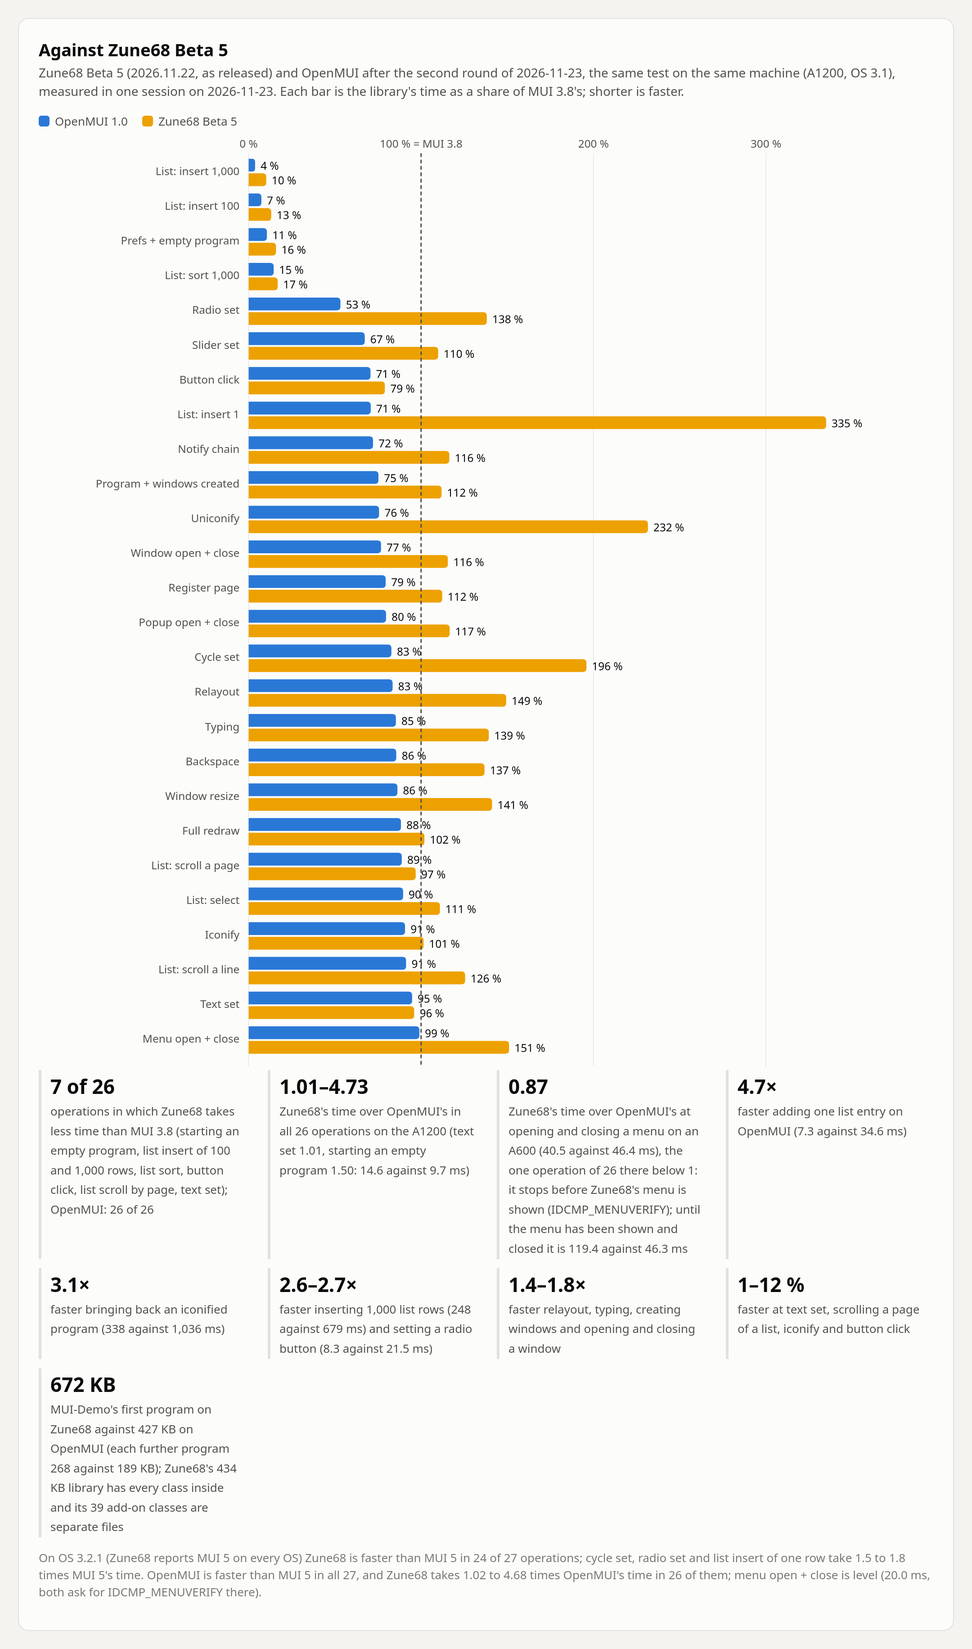
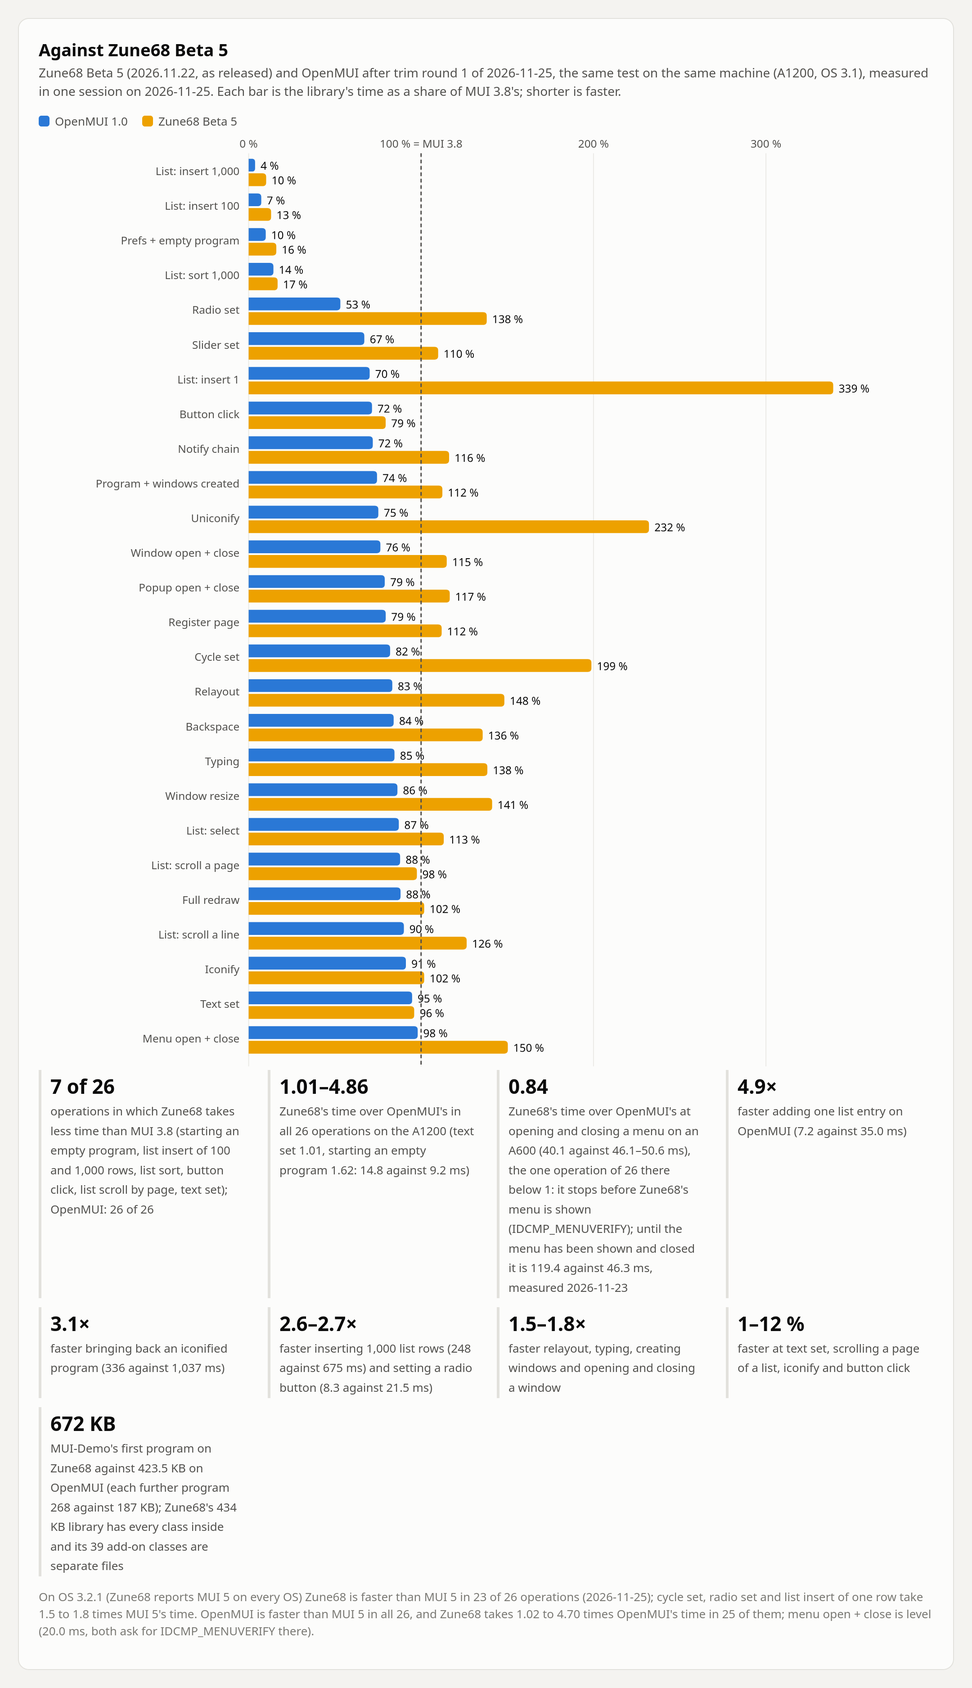
Stats page and README: figures of 2026-11-25 (trim round 1), new 68030/50 MHz chart

diff --git a/docs/stats/openmui-stats.html b/docs/stats/openmui-stats.html
@@ -86,8 +86,8 @@ th { color: var(--text-secondary); font-weight: 600; }
 <div class="wrap">
   <button class="toggle" id="theme" type="button">Light / dark</button>
   <h1>OpenMUI in numbers</h1>
-  <p class="lede">OpenMUI (the build after the second round of 2026-11-23) next to Zune68 Beta 5 (2026.11.22), MUI 3.8 and MUI 5. All figures were measured in an
-  emulated Amiga 1200 (68EC020, OS 3.1 unless noted, FS-UAE), not on a real Amiga. Measured 2026-11-23, all libraries in one session.</p>
+  <p class="lede">OpenMUI (the build after trim round 1, 2026-11-25) next to Zune68 Beta 5 (2026.11.22), MUI 3.8 and MUI 5. All figures were measured in
+  emulated Amigas (FS-UAE, cycle-exact; A1200 68EC020 and 68030 at 50 MHz, A600, OS 3.1 unless noted), not on a real Amiga. Measured 2026-11-25, all libraries in one session; memory of MUI 5 and the library alone: 2026-11-23.</p>
 
   <div class="lineage card" style="padding:12px 18px">
     <b>Zune</b> (AROS) <span>&rarr;</span> <b>Zune68</b> (Stefan Reinauer's port to AmigaOS 3) <span>&rarr;</span>
@@ -95,16 +95,16 @@ th { color: var(--text-secondary); font-weight: 600; }
   </div>
 
   <div data-sec="headline" class="tiles">
-    <div class="tile"><div class="k">First program, memory</div><div class="v">427.3 KB</div>
-      <div class="d">MUI 3.8: 460.3 &middot; MUI 5: 1,294 &middot; Zune68 Beta 5: 672</div></div>
-    <div class="tile"><div class="k">Each further program</div><div class="v">188.6 KB</div>
-      <div class="d">MUI 3.8: 211&ndash;219 &middot; MUI 5: 427&ndash;435 &middot; Zune68 Beta 5: 268</div></div>
+    <div class="tile"><div class="k">First program, memory</div><div class="v">423.5 KB</div>
+      <div class="d">MUI 3.8: 460.3 &middot; MUI 5: 1,294 (2026-11-23) &middot; Zune68 Beta 5: 672</div></div>
+    <div class="tile"><div class="k">Each further program</div><div class="v">187.3 KB</div>
+      <div class="d">MUI 3.8: 211&ndash;219 &middot; MUI 5: 427&ndash;435 (2026-11-23) &middot; Zune68 Beta 5: 268</div></div>
     <div class="tile"><div class="k">Operations at least as fast as MUI 3.8</div><div class="v">26 of 26</div>
-      <div class="d">A1200 and A600 (menu open + close 0.99 on both); started at 12 of 26</div></div>
-    <div class="tile"><div class="k">Operations faster than MUI 5</div><div class="v">27 of 27</div>
-      <div class="d">1.3 to 82&times; faster; a third of its memory</div></div>
+      <div class="d">A1200 and A1200/030; A600 25 of 26 (menu open + close 1.02); started at 12 of 26</div></div>
+    <div class="tile"><div class="k">Operations faster than MUI 5</div><div class="v">26 of 26</div>
+      <div class="d">1.3 to 82&times; faster (OS 3.2.1); a third of its memory</div></div>
     <div class="tile"><div class="k">Inserting 1,000 list entries</div><div class="v">27&times; faster</div>
-      <div class="d">248 ms against MUI 3.8's 6,653 ms and Zune68 Beta 5's 679 ms</div></div>
+      <div class="d">248 ms against MUI 3.8's 6,650 ms and Zune68 Beta 5's 675 ms (A1200)</div></div>
   </div>
 
   <div data-sec="memory" class="card">
@@ -123,7 +123,7 @@ th { color: var(--text-secondary); font-weight: 600; }
 
   <div data-sec="speed-mui38" class="card">
     <h2>Speed: OpenMUI's time as a share of MUI 3.8's</h2>
-    <p class="sub">26 everyday operations on an emulated A1200, the same test program on both libraries, cycle-exact emulation, measured 2026-11-23.
+    <p class="sub">26 everyday operations on an emulated A1200 (68EC020), the same test program on both libraries, cycle-exact emulation, measured 2026-11-25; bars are midpoints of the range over the instances.
       The dashed line is MUI 3.8 (100&nbsp;%). Shorter is faster.</p>
     <svg id="speed"></svg>
     <details><summary>Table view: all libraries, ms per operation</summary><table id="speedTable"></table>
@@ -132,35 +132,42 @@ th { color: var(--text-secondary); font-weight: 600; }
 
   <div data-sec="speed-mui5" class="card">
     <h2>Speed: OpenMUI's time as a share of MUI 5's</h2>
-    <p class="sub">The same test on OS 3.2.1, measured 2026-11-23. OpenMUI gives MUI 5 programs MUI 5's behaviour, so it was opened as MUI 5 here.
-      Faster in all 27 operations.</p>
+    <p class="sub">The same test on OS 3.2.1, measured 2026-11-25. OpenMUI gives MUI 5 programs MUI 5's behaviour, so it was opened as MUI 5 here.
+      Faster in all 26 operations (shortened text set has no MUI 5 figure on this date).</p>
     <svg id="speed5"></svg>
   </div>
 
   <div data-sec="speed-a600" class="card">
     <h2>Speed on an A600: OpenMUI's time as a share of MUI 3.8's</h2>
-    <p class="sub">The same 26 operations on an emulated A600 (68000, 7&nbsp;MHz, 4&nbsp;MB fast memory), OS 3.1, measured 2026-11-23.
-      25 are faster; list insert of one row is 2 % slower (as in release 1.0).</p>
+    <p class="sub">The same 26 operations on an emulated A600 (68000, 7&nbsp;MHz, 4&nbsp;MB fast memory), OS 3.1, measured 2026-11-25.
+      25 are faster; menu open + close is 2 % slower (1.02, bimodal).</p>
     <svg id="speed600"></svg>
+  </div>
+
+  <div data-sec="speed-030" class="card">
+    <h2>Speed on an A1200 with a 68030: OpenMUI's time as a share of MUI 3.8's</h2>
+    <p class="sub">The same 26 operations on an emulated A1200 with a 68030 at 50&nbsp;MHz, 68882, caches on, 16&nbsp;MB Zorro III + 4&nbsp;MB fast memory, OS 3.1, cycle-exact FS-UAE (its 030 timing, not a real card's), measured 2026-11-25.
+      All 26 are faster.</p>
+    <svg id="speed030"></svg>
   </div>
 
   <div data-sec="zune68" class="card">
     <h2>Against Zune68 Beta 5</h2>
-    <p class="sub">Zune68 Beta 5 (2026.11.22, as released) and OpenMUI after the second round of 2026-11-23, the same test on the same machine (A1200, OS 3.1), measured in one session on 2026-11-23. Each bar is the library's time as a share of MUI 3.8's; shorter is faster.</p>
+    <p class="sub">Zune68 Beta 5 (2026.11.22, as released) and OpenMUI after trim round 1 of 2026-11-25, the same test on the same machine (A1200, OS 3.1), measured in one session on 2026-11-25. Each bar is the library's time as a share of MUI 3.8's; shorter is faster.</p>
     <div class="legend" id="cmplegend"></div>
     <svg id="cmp"></svg>
     <div class="facts">
       <div><b>7 of 26</b><span>operations in which Zune68 takes less time than MUI 3.8 (starting an empty program, list insert of 100 and 1,000 rows, list sort, button click, list scroll by page, text set); OpenMUI: 26 of 26</span></div>
-      <div><b>1.01&ndash;4.73</b><span>Zune68's time over OpenMUI's in all 26 operations on the A1200 (text set 1.01, starting an empty program 1.50: 14.6 against 9.7 ms)</span></div>
-      <div><b>0.87</b><span>Zune68's time over OpenMUI's at opening and closing a menu on an A600 (40.5 against 46.4 ms), the one operation of 26 there below 1: it stops before Zune68's menu is shown (IDCMP_MENUVERIFY); until the menu has been shown and closed it is 119.4 against 46.3 ms</span></div>
-      <div><b>4.7&times;</b><span>faster adding one list entry on OpenMUI (7.3 against 34.6 ms)</span></div>
-      <div><b>3.1&times;</b><span>faster bringing back an iconified program (338 against 1,036 ms)</span></div>
-      <div><b>2.6&ndash;2.7&times;</b><span>faster inserting 1,000 list rows (248 against 679 ms) and setting a radio button (8.3 against 21.5 ms)</span></div>
-      <div><b>1.4&ndash;1.8&times;</b><span>faster relayout, typing, creating windows and opening and closing a window</span></div>
+      <div><b>1.01&ndash;4.86</b><span>Zune68's time over OpenMUI's in all 26 operations on the A1200 (text set 1.01, starting an empty program 1.62: 14.8 against 9.2 ms)</span></div>
+      <div><b>0.84</b><span>Zune68's time over OpenMUI's at opening and closing a menu on an A600 (40.1 against 46.1&ndash;50.6 ms), the one operation of 26 there below 1: it stops before Zune68's menu is shown (IDCMP_MENUVERIFY); until the menu has been shown and closed it is 119.4 against 46.3 ms, measured 2026-11-23</span></div>
+      <div><b>4.9&times;</b><span>faster adding one list entry on OpenMUI (7.2 against 35.0 ms)</span></div>
+      <div><b>3.1&times;</b><span>faster bringing back an iconified program (336 against 1,037 ms)</span></div>
+      <div><b>2.6&ndash;2.7&times;</b><span>faster inserting 1,000 list rows (248 against 675 ms) and setting a radio button (8.3 against 21.5 ms)</span></div>
+      <div><b>1.5&ndash;1.8&times;</b><span>faster relayout, typing, creating windows and opening and closing a window</span></div>
       <div><b>1&ndash;12 %</b><span>faster at text set, scrolling a page of a list, iconify and button click</span></div>
-      <div><b>672 KB</b><span>MUI-Demo's first program on Zune68 against 427 KB on OpenMUI (each further program 268 against 189 KB); Zune68's 434 KB library has every class inside and its 39 add-on classes are separate files</span></div>
+      <div><b>672 KB</b><span>MUI-Demo's first program on Zune68 against 423.5 KB on OpenMUI (each further program 268 against 187 KB); Zune68's 434 KB library has every class inside and its 39 add-on classes are separate files</span></div>
     </div>
-    <p class="note">On OS 3.2.1 (Zune68 reports MUI 5 on every OS) Zune68 is faster than MUI 5 in 24 of 27 operations; cycle set, radio set and list insert of one row take 1.5 to 1.8 times MUI 5's time. OpenMUI is faster than MUI 5 in all 27, and Zune68 takes 1.02 to 4.68 times OpenMUI's time in 26 of them; menu open + close is level (20.0 ms, both ask for IDCMP_MENUVERIFY there).</p>
+    <p class="note">On OS 3.2.1 (Zune68 reports MUI 5 on every OS) Zune68 is faster than MUI 5 in 23 of 26 operations (2026-11-25); cycle set, radio set and list insert of one row take 1.5 to 1.8 times MUI 5's time. OpenMUI is faster than MUI 5 in all 26, and Zune68 takes 1.02 to 4.70 times OpenMUI's time in 25 of them; menu open + close is level (20.0 ms, both ask for IDCMP_MENUVERIFY there).</p>
   </div>
 
   <div data-sec="progress" class="card">
@@ -184,7 +191,7 @@ th { color: var(--text-secondary); font-weight: 600; }
   </div>
 
   <p class="note">Sources: docs/lean/measurements.md and docs/production.md in the OpenMUI repository
-  (github.com/creep-ltx/openmui). Emulator figures measured 2026-11-23; real-hardware figures follow.</p>
+  (github.com/creep-ltx/openmui). Emulator figures measured 2026-11-25 (MUI 5 memory and library alone 2026-11-23); real-hardware figures follow.</p>
 </div>
 <div class="tip" id="tip"></div>
 </div>
@@ -196,104 +203,132 @@ const LIBS = [
   { id: 'mui5',    name: 'MUI 5',         color: 'var(--s-mui5)' },
   { id: 'zune68',  name: 'Zune68 Beta 5', color: 'var(--s-zune68)' },
 ];
-// KB; null = not measured yet. Zune68 = Beta 5 (2026.11.22) as released, 68000 build. Measured 2026-11-23.
+// KB; null = not measured yet. Zune68 = Beta 5 (2026.11.22) as released. first/further and the OpenMUI file: 2026-11-25 (MUI 3.8, Zune68: A1200/030 run); MUI 5, library alone and the other files: 2026-11-23.
 const MEM = {
-  first:   { openmui: 427.3, mui38: 460.3, mui5: 1293.7, zune68: 672.3 },
-  further: { openmui: 188.6, mui38: 214.8, mui5: 431.3, zune68: 267.9 },
+  first:   { openmui: 423.5, mui38: 460.3, mui5: 1293.7, zune68: 672.3 },
+  further: { openmui: 187.3, mui38: 214.7, mui5: 431.3, zune68: 267.9 },
   lib:     { openmui: 248.5, mui38: 238.5, mui5: 581.0, zune68: 433.3 },
-  file:    { openmui: 234.8, mui38: 166.4, mui5: 565.5, zune68: 433.7 },
+  file:    { openmui: 232.1, mui38: 166.4, mui5: 565.5, zune68: 433.7 },
 };
-const MEMNOTE = { further: 'MUI 3.8: 210.7–218.9 KB, midpoint shown', file: 'Library file only. Class files on top (stripped): MUI 3.8 271 KB, OpenMUI 290 KB (loaded only when used), MUI 5 2,054 KB, Zune68 803 KB (39 add-on class files). MUI 3.8 and MUI 5 file sizes of 2026-11-19, the rest of 2026-11-23.' };
-// ms per operation, A1200, measured 2026-11-23, OS 3.1: [name, MUI 3.8, OpenMUI (after the second round of 2026-11-23), Zune68 Beta 5]; mean of two instances.
+const MEMNOTE = { further: 'MUI 3.8: 210.6–218.8 KB, midpoint shown', file: 'Library file only. Class files on top (stripped): MUI 3.8 271 KB, OpenMUI 290 KB (loaded only when used), MUI 5 2,054 KB, Zune68 803 KB (39 add-on class files). OpenMUI file (stripped) of 2026-11-25; MUI 3.8 and MUI 5 of 2026-11-19, Zune68 of 2026-11-23.' };
+// ms per operation, A1200 (68EC020), measured 2026-11-25, OS 3.1: [name, MUI 3.8, OpenMUI (trim round 1), Zune68 Beta 5]; midpoint of the range over the instances.
 const SPEED = [
-  ["Prefs + empty program", 91.89, 9.73, 14.56],
-  ["Program + windows created", 236.6, 178.1, 264.7],
-  ["Window open + close", 521.6, 400.5, 602.6],
-  ["Full redraw", 150.7, 133.1, 153.6],
-  ["Relayout", 207.1, 172.9, 309.3],
-  ["Slider set", 4.04, 2.72, 4.44],
-  ["Notify chain", 7.82, 5.64, 9.1],
-  ["Cycle set", 2.44, 2.02, 4.78],
-  ["Radio set", 15.56, 8.28, 21.49],
+  ["Prefs + empty program", 92.41, 9.16, 14.82],
+  ["Program + windows created", 236.55, 176.1, 265.75],
+  ["Window open + close", 523.2, 399.7, 601.05],
+  ["Full redraw", 150.7, 132.75, 153.4],
+  ["Relayout", 207.05, 172.5, 307.05],
+  ["Slider set", 4.04, 2.71, 4.44],
+  ["Notify chain", 7.82, 5.63, 9.09],
+  ["Cycle set", 2.45, 2.01, 4.87],
+  ["Radio set", 15.55, 8.27, 21.47],
   ["Text set", 2.5, 2.37, 2.4],
-  ["List: insert 1", 10.34, 7.32, 34.63],
-  ["List: insert 100", 830.4, 61.34, 108.6],
-  ["List: insert 1,000", 6652.5, 248.3, 678.8],
-  ["List: select", 21.13, 18.93, 23.44],
-  ["List: scroll a line", 14.6, 13.33, 18.33],
-  ["List: scroll a page", 44.45, 39.47, 43.06],
-  ["List: sort 1,000", 658.6, 95.68, 111.0],
-  ["Button click", 22.74, 16.07, 17.96],
-  ["Typing", 7.74, 6.61, 10.78],
-  ["Backspace", 7.64, 6.54, 10.45],
-  ["Menu open + close", 13.19, 13.06, 19.92],
-  ["Iconify", 84.07, 76.24, 85.28],
-  ["Uniconify", 447.5, 338.4, 1036.2],
-  ["Register page", 53.74, 42.7, 60.32],
-  ["Popup open + close", 120.0, 95.63, 139.9],
-  ["Window resize", 255.1, 220.1, 360.1]
+  ["List: insert 1", 10.33, 7.25, 35.02],
+  ["List: insert 100", 829.85, 60.74, 107.95],
+  ["List: insert 1,000", 6650.05, 247.9, 675.2],
+  ["List: select", 21.14, 18.41, 23.92],
+  ["List: scroll a line", 14.64, 13.18, 18.51],
+  ["List: scroll a page", 44.4, 39, 43.32],
+  ["List: sort 1,000", 657.8, 94.48, 110.45],
+  ["Button click", 22.59, 16.16, 17.95],
+  ["Typing", 7.78, 6.58, 10.77],
+  ["Backspace", 7.67, 6.45, 10.41],
+  ["Menu open + close", 13.3, 13.04, 19.99],
+  ["Iconify", 83.75, 76.37, 85.25],
+  ["Uniconify", 446.85, 336.05, 1037.35],
+  ["Register page", 53.63, 42.63, 60.03],
+  ["Popup open + close", 120, 94.71, 139.95],
+  ["Window resize", 255.1, 220.1, 360.2]
 ];
-// OS 3.2.1, measured 2026-11-23: [name, MUI 5, OpenMUI behaving as MUI 5, Zune68 Beta 5]; mean of two instances.
+// OS 3.2.1, measured 2026-11-25: [name, MUI 5, OpenMUI behaving as MUI 5, Zune68 Beta 5]; midpoint of the range over the instances. Shortened text set has no MUI 5 figure on 2026-11-25 (OpenMUI 3.12, Zune68 3.23 ms) and is left out.
 const SPEED5 = [
-  ["Prefs + empty program", 303.7, 11.66, 15.48],
-  ["Program + windows created", 578.1, 196.6, 268.9],
-  ["Window open + close", 1026.1, 442.2, 639.9],
-  ["Full redraw", 206.5, 139.1, 159.1],
-  ["Relayout", 317.2, 181.6, 312.6],
-  ["Slider set", 6.77, 3.02, 4.76],
-  ["Notify chain", 12.77, 6.23, 9.74],
+  ["Prefs + empty program", 306.75, 11.04, 15.81],
+  ["Program + windows created", 578.55, 190.5, 274.7],
+  ["Window open + close", 1014.6, 442.8, 640.35],
+  ["Full redraw", 206.4, 138.9, 159],
+  ["Relayout", 317, 181.35, 316.55],
+  ["Slider set", 6.75, 3.02, 4.76],
+  ["Notify chain", 12.77, 6.22, 9.73],
   ["Cycle set", 2.74, 2.05, 4.05],
-  ["Radio set", 11.9, 8.4, 21.79],
+  ["Radio set", 11.88, 8.39, 21.77],
   ["Text set", 2.25, 1.63, 1.67],
-  ["List: insert 1", 22.87, 7.3, 34.2],
-  ["List: insert 100", 2038.0, 60.22, 106.5],
-  ["List: insert 1,000", 20273.0, 247.8, 674.3],
-  ["List: select", 39.22, 18.69, 21.58],
-  ["List: scroll a line", 21.15, 14.59, 16.84],
-  ["List: scroll a page", 56.97, 39.89, 41.34],
-  ["List: sort 1,000", 2308.4, 137.8, 153.9],
-  ["Button click", 21.23, 16.2, 18.19],
-  ["Typing", 15.32, 7.48, 10.8],
-  ["Backspace", 14.69, 7.38, 10.47],
-  ["Menu open + close", 26.04, 19.96, 19.99],
-  ["Iconify", 202.1, 97.69, 102.6],
-  ["Uniconify", 1229.0, 372.0, 1063.7],
-  ["Register page", 88.69, 44.97, 54.37],
-  ["Popup open + close", 553.1, 104.0, 139.8],
-  ["Window resize", 290.1, 170.0, 240.1],
-  ["Shortened text set (MUI 4/5 only)", 4.69, 3.11, 3.21]
+  ["List: insert 1", 22.85, 7.29, 34.25],
+  ["List: insert 100", 2034.9, 60.48, 107.9],
+  ["List: insert 1,000", 20238.5, 248.05, 691.6],
+  ["List: select", 39.16, 18.55, 21.59],
+  ["List: scroll a line", 21.12, 14.57, 16.81],
+  ["List: scroll a page", 56.89, 39.77, 41.34],
+  ["List: sort 1,000", 2307.15, 137.7, 153.4],
+  ["Button click", 21.27, 16.19, 18.17],
+  ["Typing", 15.25, 7.43, 10.81],
+  ["Backspace", 14.68, 7.31, 10.43],
+  ["Menu open + close", 25.8, 19.95, 19.98],
+  ["Iconify", 196.6, 97.12, 103.85],
+  ["Uniconify", 1219.55, 371.85, 1074.2],
+  ["Register page", 88.59, 44.92, 54.28],
+  ["Popup open + close", 536.65, 103.3, 139.75],
+  ["Window resize", 290.1, 170.05, 240.1]
 ];
-// A600 (68000, 4 MB fast), OS 3.1, measured 2026-11-23: [name, MUI 3.8, OpenMUI 1.0, Zune68 Beta 5]; mean of two instances.
+// A1200 with a 68030 at 50 MHz, 20 MB fast, OS 3.1, measured 2026-11-25: [name, MUI 3.8, OpenMUI (trim round 1), Zune68 Beta 5]; midpoint of the range over four instances (MUI 3.8, Zune68: two).
+const SPEED030 = [
+  ["Prefs + empty program", 129.1, 9.87, 15.18],
+  ["Program + windows created", 290.45, 185.7, 276.95],
+  ["Window open + close", 575.5, 417.5, 623.45],
+  ["Full redraw", 152.35, 139.1, 161.25],
+  ["Relayout", 211.4, 180.5, 323.5],
+  ["Slider set", 4.21, 2.89, 4.71],
+  ["Notify chain", 8.13, 6, 9.64],
+  ["Cycle set", 2.57, 2.17, 5.05],
+  ["Radio set", 16.42, 8.91, 22.98],
+  ["Text set", 2.55, 2.42, 2.45],
+  ["List: insert 1", 10.61, 7.55, 36.27],
+  ["List: insert 100", 851.6, 63, 113.05],
+  ["List: insert 1,000", 6842.9, 258.9, 707],
+  ["List: select", 21.81, 19.47, 24.33],
+  ["List: scroll a line", 14.98, 13.46, 18.85],
+  ["List: scroll a page", 46.14, 40.34, 44.59],
+  ["List: sort 1,000", 658.55, 95.39, 114.3],
+  ["Button click", 23.88, 17.11, 19.32],
+  ["Typing", 8.41, 7.06, 11.41],
+  ["Backspace", 8.33, 6.96, 11.04],
+  ["Menu open + close", 13.89, 13.73, 19.98],
+  ["Iconify", 98.59, 80, 87.67],
+  ["Uniconify", 496.85, 352, 1077.2],
+  ["Register page", 55.52, 44.69, 62.87],
+  ["Popup open + close", 120, 98.44, 139.95],
+  ["Window resize", 230.1, 220.1, 360.2]
+];
+// A600 (68000, 4 MB fast), OS 3.1, measured 2026-11-25: [name, MUI 3.8, OpenMUI (trim round 1), Zune68 Beta 5]; midpoint of the range over the instances.
 const SPEED600 = [
-  ["Prefs + empty program", 358.5, 37.28, 62.14],
-  ["Program + windows created", 936.1, 718.8, 1068.0],
-  ["Window open + close", 1762.9, 1390.4, 2186.7],
-  ["Full redraw", 471.1, 442.2, 532.8],
-  ["Relayout", 699.2, 608.7, 1162.2],
-  ["Slider set", 15.73, 10.14, 16.06],
-  ["Notify chain", 30.63, 20.95, 32.84],
-  ["Cycle set", 9.35, 7.88, 19.17],
-  ["Radio set", 60.5, 32.36, 82.34],
-  ["Text set", 9.71, 9.33, 9.42],
-  ["List: insert 1", 32.46, 28.95, 126.5],
-  ["List: insert 100", 2745.2, 224.9, 417.7],
-  ["List: insert 1,000", 23958.1, 1010.5, 2744.6],
-  ["List: select", 64.99, 61.23, 78.57],
-  ["List: scroll a line", 39.97, 37.36, 57.14],
-  ["List: scroll a page", 154.0, 134.9, 150.9],
-  ["List: sort 1,000", 2501.4, 385.6, 437.6],
-  ["Button click", 92.39, 66.97, 74.22],
-  ["Typing", 31.83, 26.18, 44.08],
-  ["Backspace", 31.62, 25.66, 42.56],
-  ["Menu open + close", 46.64, 46.41, 40.46],
-  ["Iconify", 302.5, 230.9, 264.1],
-  ["Uniconify", 1543.0, 1232.4, 4001.1],
-  ["Register page", 162.3, 145.6, 219.8],
-  ["Popup open + close", 406.0, 341.7, 489.9],
-  ["Window resize", 620.7, 495.4, 799.8]
+  ["Prefs + empty program", 360.5, 35.38, 61.67],
+  ["Program + windows created", 940.15, 716.65, 1067.45],
+  ["Window open + close", 1764.65, 1392.3, 2192.45],
+  ["Full redraw", 472.95, 442, 532.5],
+  ["Relayout", 700.75, 608, 1169],
+  ["Slider set", 15.43, 10.1, 16.05],
+  ["Notify chain", 30.01, 20.94, 32.84],
+  ["Cycle set", 9.36, 7.86, 18.7],
+  ["Radio set", 60.49, 32.34, 82.37],
+  ["Text set", 9.69, 9.32, 9.39],
+  ["List: insert 1", 32.44, 28.97, 126.1],
+  ["List: insert 100", 2747, 223, 423.15],
+  ["List: insert 1,000", 23960.2, 1006.1, 2765.7],
+  ["List: select", 65.06, 61.19, 77.32],
+  ["List: scroll a line", 40.04, 37.27, 56.5],
+  ["List: scroll a page", 153.75, 134.65, 149.7],
+  ["List: sort 1,000", 2495.6, 381.15, 434.85],
+  ["Button click", 91.73, 64.15, 74.54],
+  ["Typing", 31.63, 25.91, 43.81],
+  ["Backspace", 31.26, 25.52, 42.49],
+  ["Menu open + close", 46.58, 48.36, 40.14],
+  ["Iconify", 302.4, 231.05, 265.7],
+  ["Uniconify", 1538.2, 1229.55, 4005.3],
+  ["Register page", 163.15, 145.35, 219.4],
+  ["Popup open + close", 404.65, 339.95, 483.95],
+  ["Window resize", 620.9, 495.2, 795.65]
 ];
 
-const ROUNDS = [['Start (lean)', 12], ['Speed round 1', 19], ['Speed round 2', 23], ['Speed round 3', 24], ['Rewrites, 2026-11-19', 26], ['Speed round, 2026-11-23', 26], ['Second round, 2026-11-23', 26]];
+const ROUNDS = [['Start (lean)', 12], ['Speed round 1', 19], ['Speed round 2', 23], ['Speed round 3', 24], ['Rewrites, 2026-11-19', 26], ['Speed round, 2026-11-23', 26], ['Second round, 2026-11-23', 26], ['Trim round 1, 2026-11-25', 26]];
 
 const NS = 'http://www.w3.org/2000/svg';
 const tip = document.getElementById('tip');
@@ -347,7 +382,7 @@ function memChart(id, key) {
 }
 memChart('memFirst', 'first'); memChart('memFurther', 'further'); memChart('memLib', 'lib'); memChart('memFile', 'file');
 document.getElementById('mempending').textContent =
-  'MUI 5 was measured on OS 3.2.1 (the only OS it runs on here), the others on OS 3.1. The library file and "library alone" are larger for OpenMUI than for MUI 3.8 because MUI 3.8 keeps more of its code in separate class files; what a program actually costs is the first two charts.';
+  'First and further program: 2026-11-25, OpenMUI trim round 1 on the A1200 (OS 3.1, 4 MB fast), MUI 3.8 and Zune68 Beta 5 on the A1200/030; MUI 5 (2026-11-23) on OS 3.2.1, the others on OS 3.1. Library alone: 2026-11-23, not re-measured. The library file and "library alone" are larger for OpenMUI than for MUI 3.8 because MUI 3.8 keeps more of its code in separate class files; what a program actually costs is the first two charts.';
 (function () {
   const t = document.getElementById('memTable');
   const rows = [['First program', 'first'], ['Each further program', 'further'], ['Library alone', 'lib'], ['Library file', 'file']];
@@ -382,6 +417,7 @@ function speedChart(id, rows0, refName, color) {
 speedChart('speed', SPEED, 'MUI 3.8', 'var(--s-openmui)');
 speedChart('speed5', SPEED5, 'MUI 5', 'var(--s-openmui)');
 speedChart('speed600', SPEED600, 'MUI 3.8', 'var(--s-openmui)');
+speedChart('speed030', SPEED030, 'MUI 3.8', 'var(--s-openmui)');
 (function () {
   const svg = document.getElementById('cmp'), W = 980, labelW = 230, rowH = 38, barH = 14, top = 22, max = 360;
   document.getElementById('cmplegend').innerHTML =

diff --git a/README.md b/README.md
@@ -20,6 +20,16 @@ measured on a real Amiga.
 
 ![Headline figures](docs/stats/headline.png)
 
+Newest measurement: 2026-11-25, after trim round 1 (details in
+[docs/lean/measurements.md](docs/lean/measurements.md)): first program 423,536
+bytes, each further 187,272-187,336 (MUI-Demo, A1200, OS 3.1); library file 232,100
+bytes stripped. The speed tables further down are from 2026-11-23. Charts of 2026-11-25
+(emulated, cycle-exact FS-UAE, bars are midpoints of the range over the instances):
+
+![A600 (68000), OpenMUI's time as a share of MUI 3.8's](docs/stats/speed-a600.png)
+
+![A1200 with a 68030 at 50 MHz, OpenMUI's time as a share of MUI 3.8's](docs/stats/speed-030.png)
+
 ### Speed
 
 Milliseconds per operation, measured 2026-11-23 with the build after the
